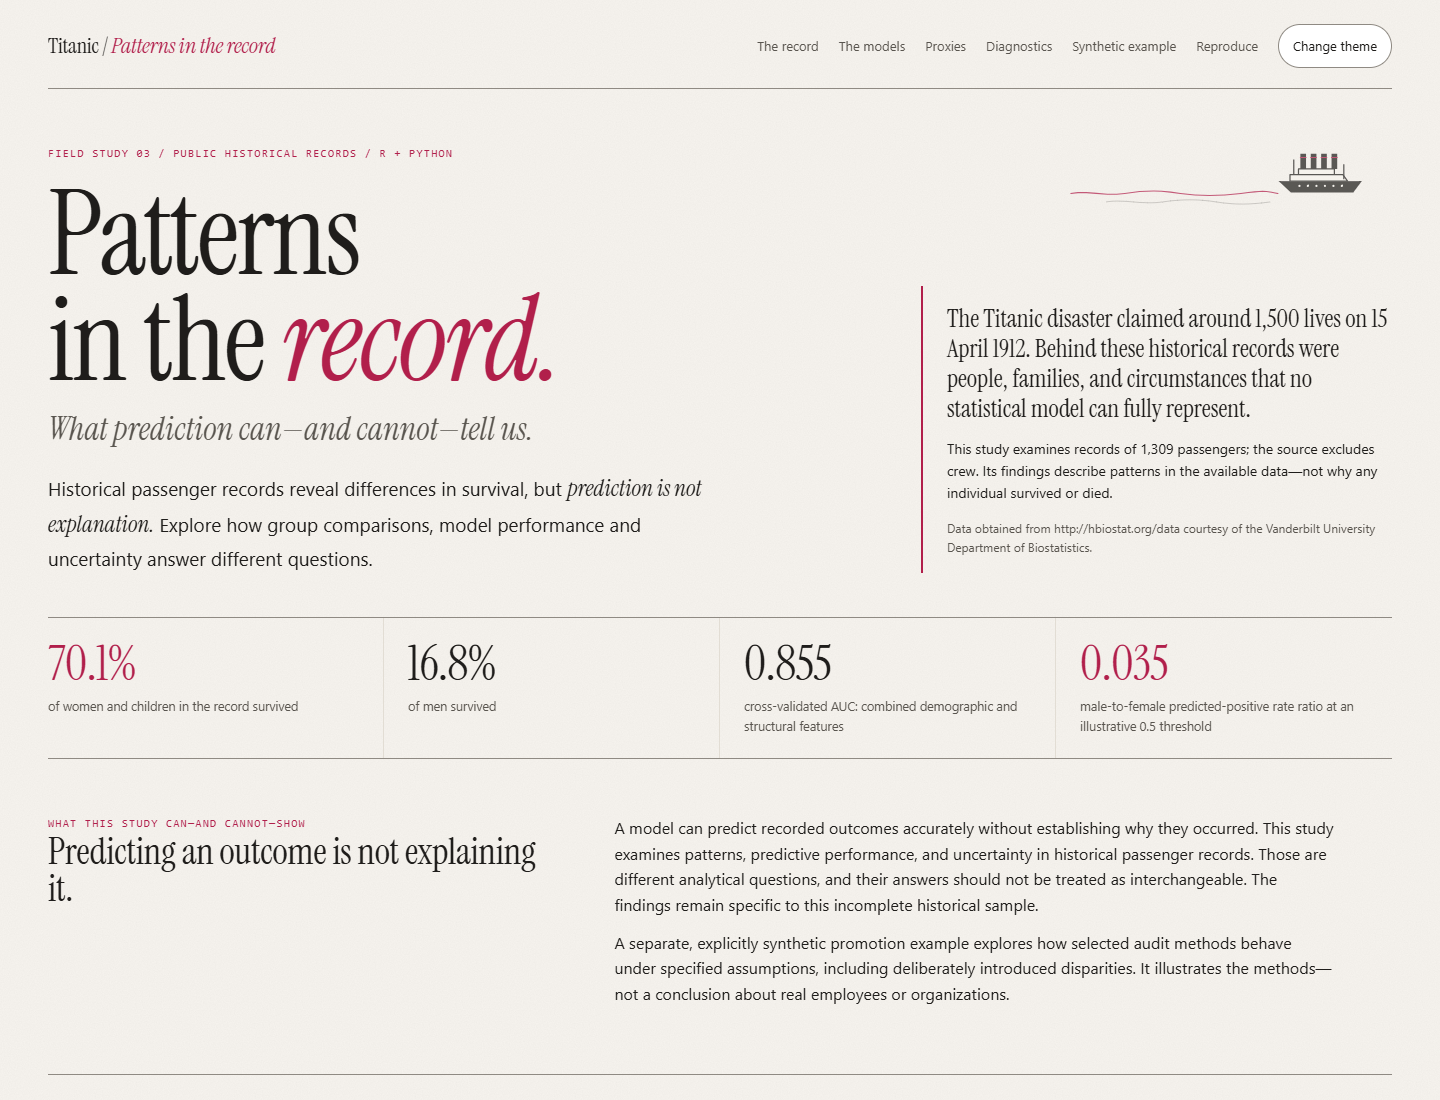
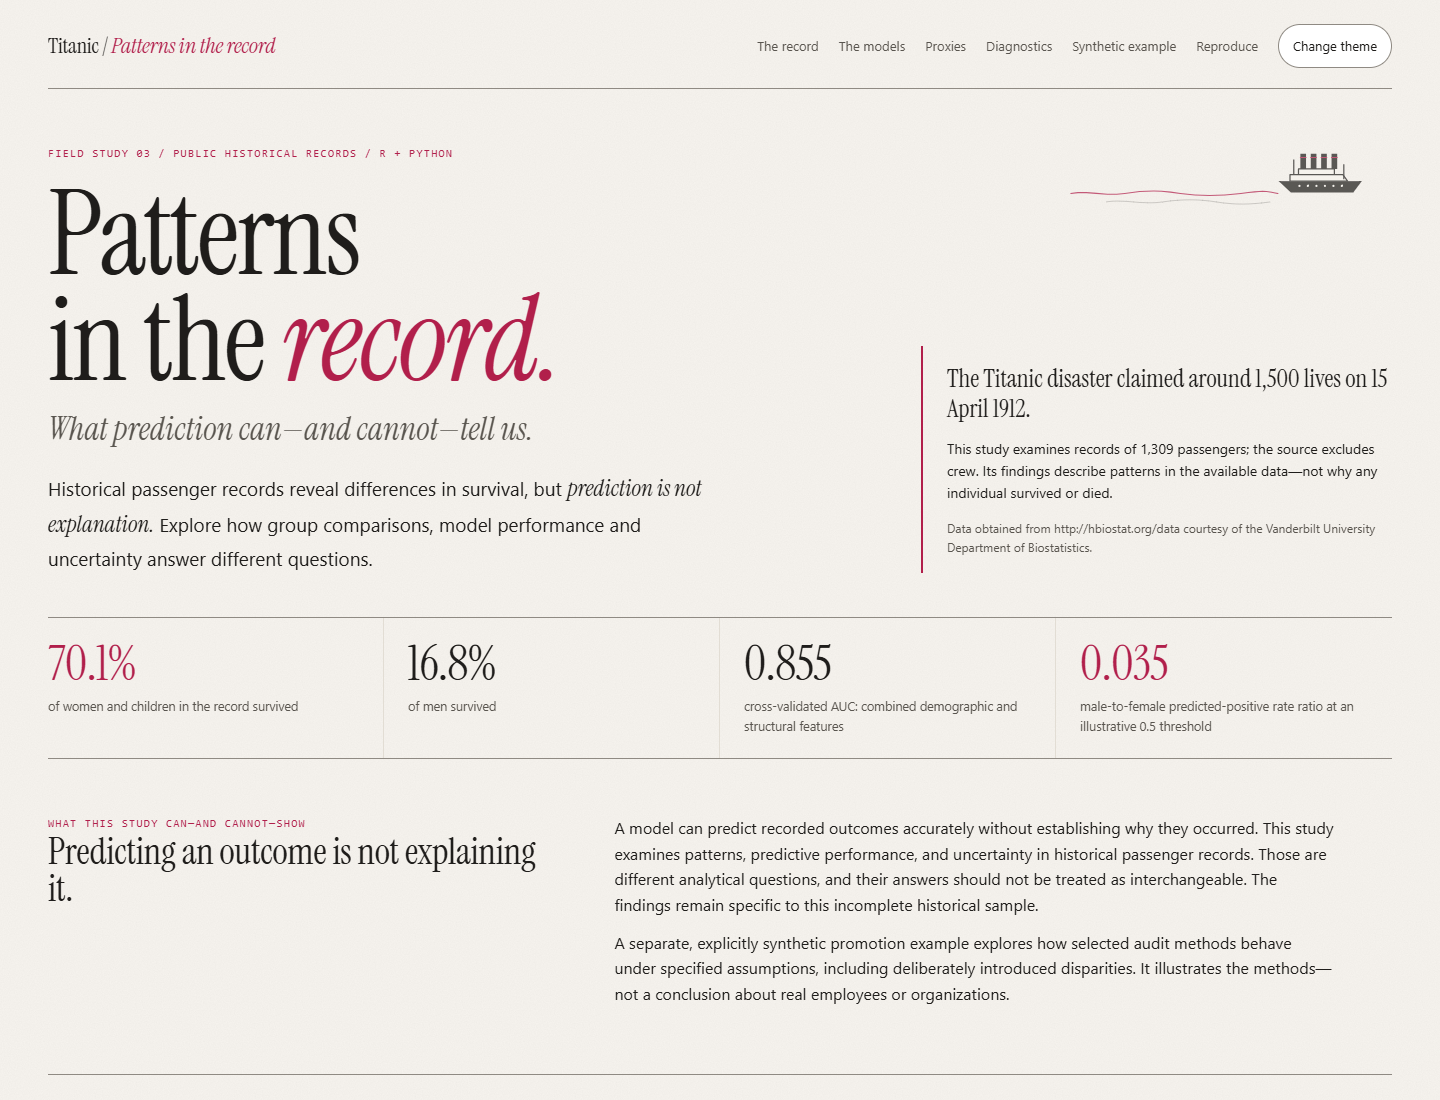
Keep the historical acknowledgment factual and respectful
Remove the philosophical sentence about statistical models from the opening and README. Retain the factual acknowledgment, passenger coverage, interpretation limits, boat artwork and analysis. Refresh the preview and update the narrative regression; three focused browser tests pass.

Copilot-Session: 745aa373-8687-4517-a520-543bd54c71aa

Changed region(s): [[0.6562, 0.2782, 0.9688, 0.4018]]

diff --git a/docs/index.html b/docs/index.html
@@ -367,7 +367,7 @@ footer { display: grid; grid-template-columns: 1.4fr 1fr auto; gap: 24px; border
     <p class="lead">Historical passenger records reveal differences in survival, but <em>prediction is not explanation.</em> Explore how group comparisons, model performance and uncertainty answer different questions.</p>
   </div>
   <aside class="aside" aria-label="Historical context and study scope">
-    <p class="memorial">The Titanic disaster claimed around 1,500 lives on 15 April 1912. Behind these historical records were people, families, and circumstances that no statistical model can fully represent.</p>
+    <p class="memorial">The Titanic disaster claimed around 1,500 lives on 15 April 1912.</p>
     <p>This study examines records of <span data-k="rows"></span> passengers; the source excludes crew. Its findings describe patterns in the available data—not why any individual survived or died.</p>
     <p class="credit" data-k="credit"></p>
   </aside>

diff --git a/web/story.html b/web/story.html
@@ -367,7 +367,7 @@ footer { display: grid; grid-template-columns: 1.4fr 1fr auto; gap: 24px; border
     <p class="lead">Historical passenger records reveal differences in survival, but <em>prediction is not explanation.</em> Explore how group comparisons, model performance and uncertainty answer different questions.</p>
   </div>
   <aside class="aside" aria-label="Historical context and study scope">
-    <p class="memorial">The Titanic disaster claimed around 1,500 lives on 15 April 1912. Behind these historical records were people, families, and circumstances that no statistical model can fully represent.</p>
+    <p class="memorial">The Titanic disaster claimed around 1,500 lives on 15 April 1912.</p>
     <p>This study examines records of <span data-k="rows"></span> passengers; the source excludes crew. Its findings describe patterns in the available data—not why any individual survived or died.</p>
     <p class="credit" data-k="credit"></p>
   </aside>

diff --git a/tests/test_story_browser.py b/tests/test_story_browser.py
@@ -186,9 +186,9 @@ class StoryTests(unittest.TestCase):
         page = self.open_story(1280, "reduce")
         aside = page.locator(".hero > .aside").inner_text()
         self.assertIn("1,500", aside)
-        self.assertIn("people, families", aside)
+        self.assertIn("The Titanic disaster claimed around 1,500 lives on 15 April 1912.", aside)
         self.assertIn("not why any individual survived or died", aside)
-        for wording in ("in memory of", "not a survival game", "scores no one"):
+        for wording in ("in memory of", "not a survival game", "scores no one", "fully represent"):
             self.assertNotIn(wording, aside.lower())
         self.assertIn("Patterns", page.locator("h1").inner_text())
         credit = json.loads((ROOT / "data" / "provenance.json").read_text(encoding="utf-8"))

diff --git a/README.md b/README.md
@@ -2,9 +2,7 @@
 
 ### What prediction can—and cannot—tell us
 
-The Titanic disaster claimed around 1,500 lives on 15 April 1912. Behind these
-historical records were people, families, and circumstances that no statistical
-model can fully represent.
+The Titanic disaster claimed around 1,500 lives on 15 April 1912.
 
 **Predicting an outcome is not explaining it.** This historical observational
 study separates descriptive patterns, predictive performance and uncertainty.
